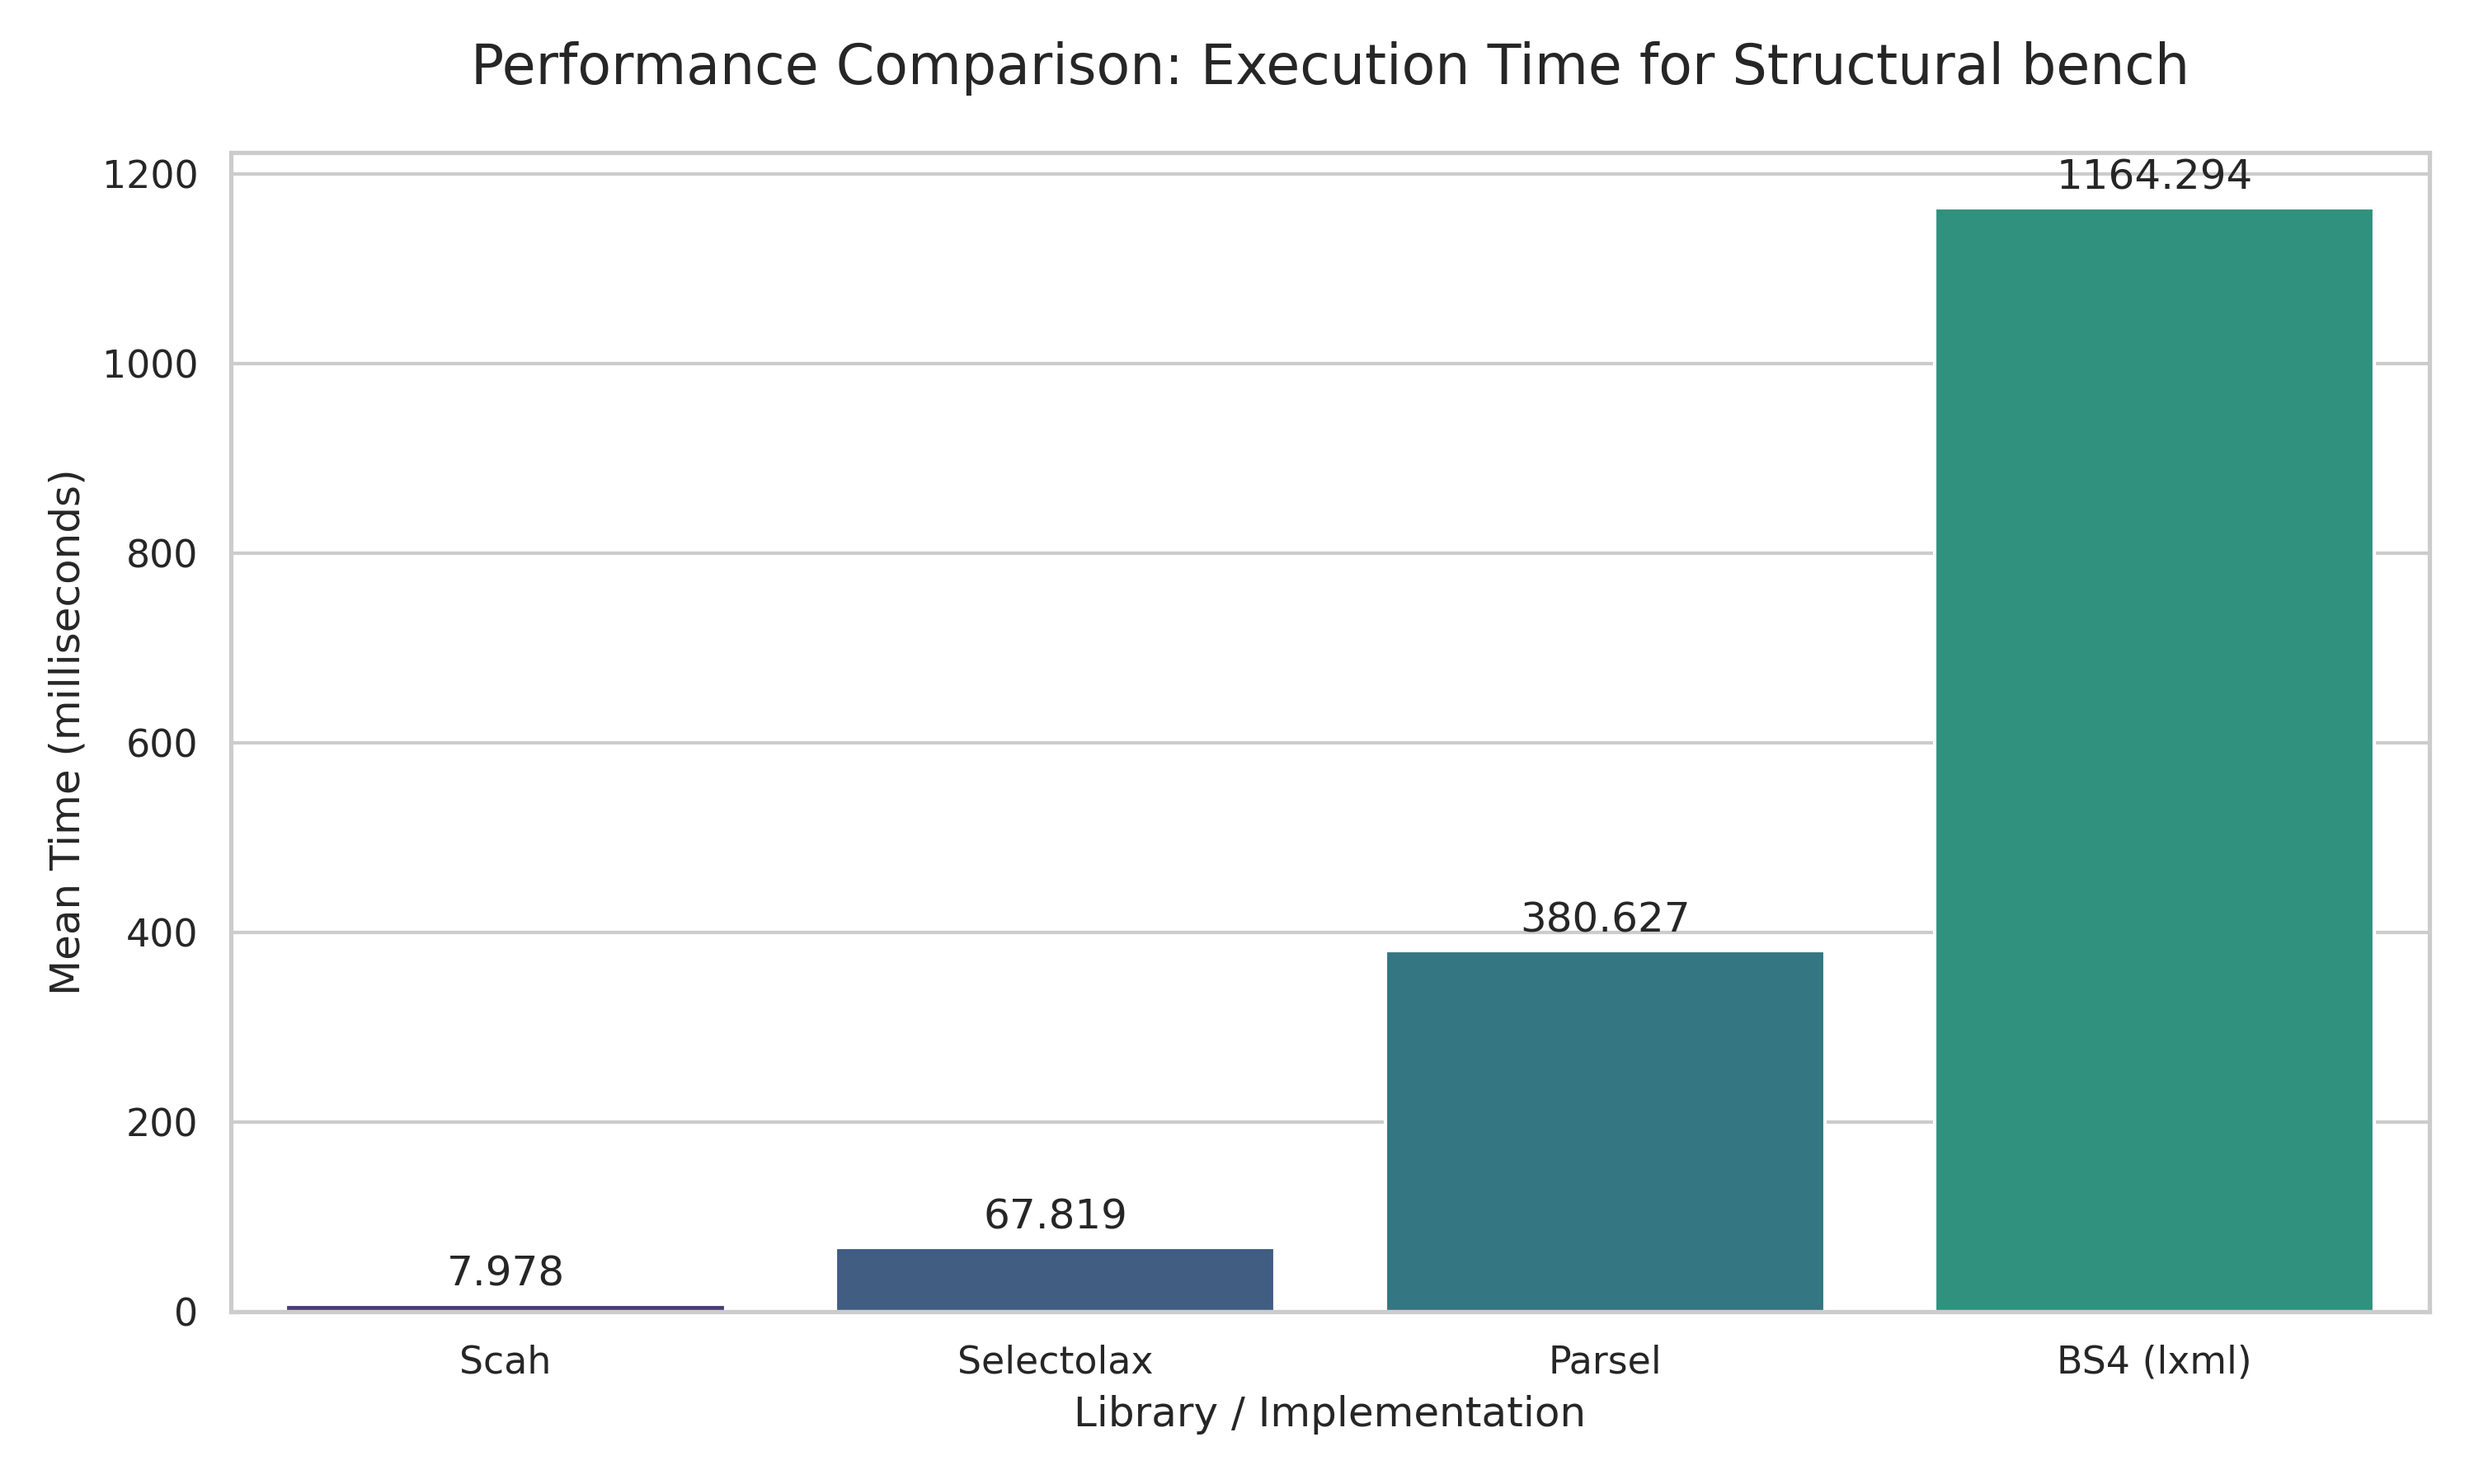
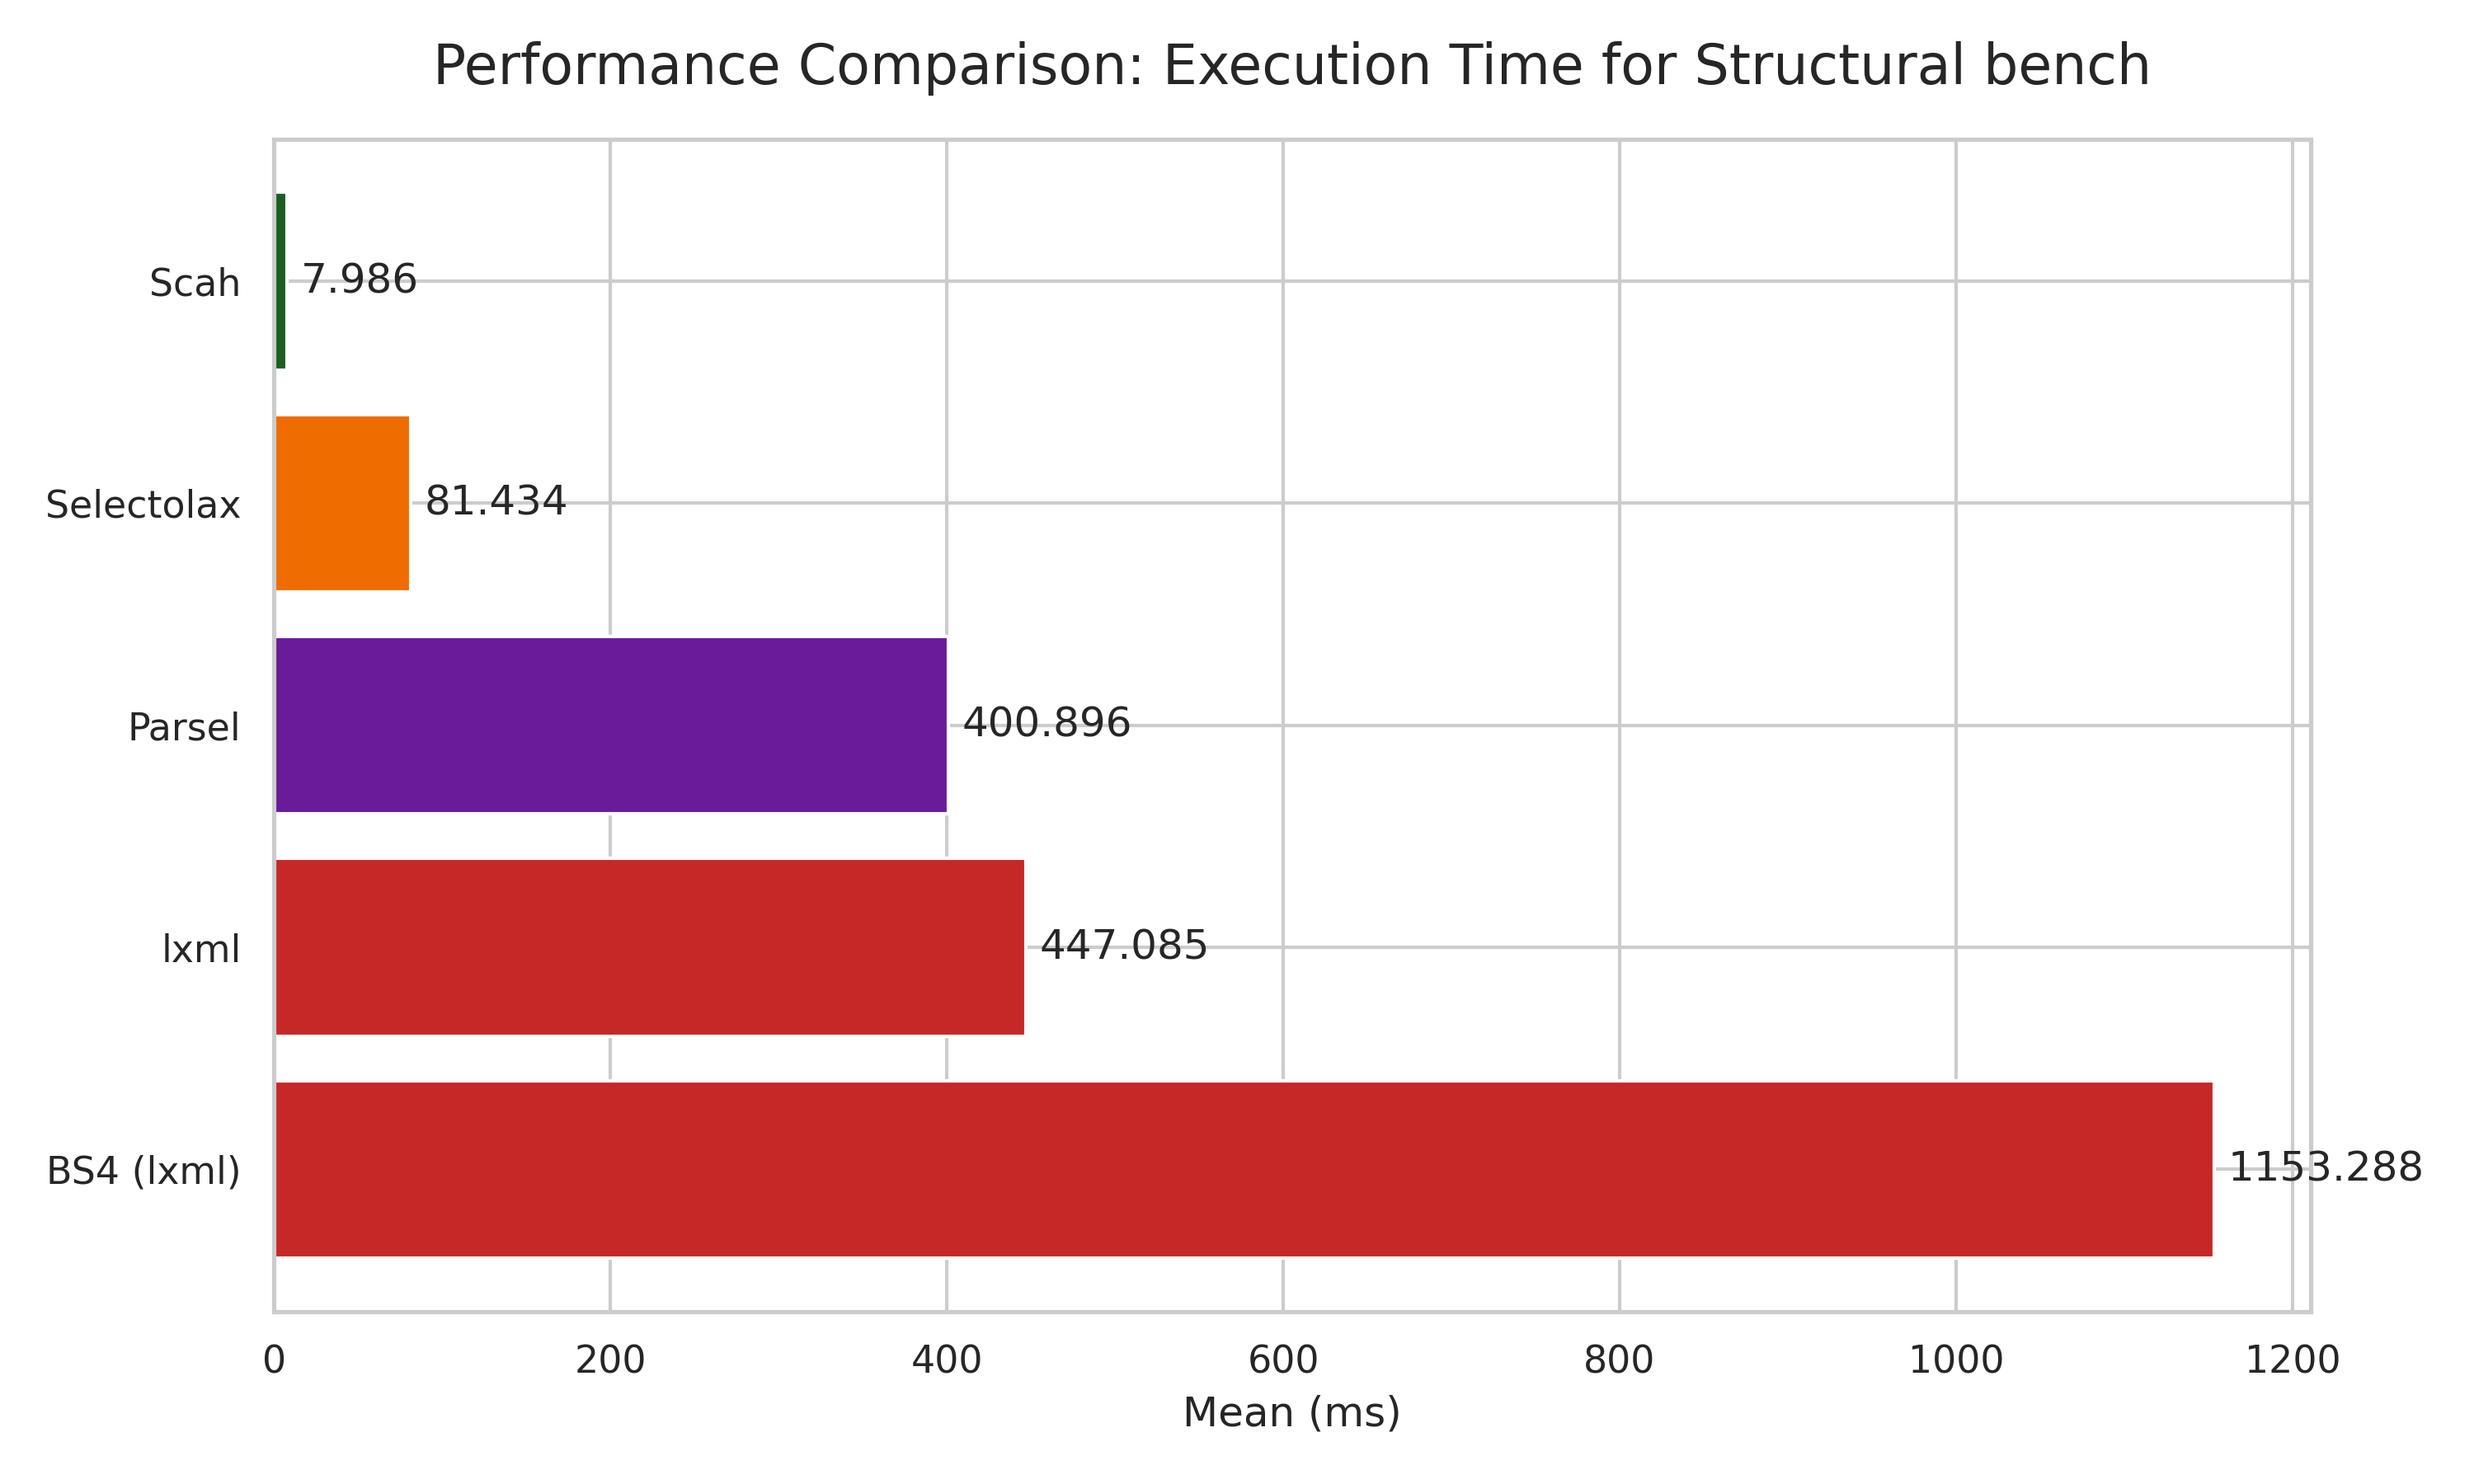
Added `lxml` parser

diff --git a/crates/bindings/scah-python/benches/utils/parsers.py b/crates/bindings/scah-python/benches/utils/parsers.py
@@ -3,37 +3,12 @@ import re
 from io import BytesIO
 
 from html.parser import HTMLParser
-
-try:
-    from bs4 import BeautifulSoup
-except ImportError:
-    BeautifulSoup = None
-
-try:
-    import lxml.html
-    from lxml import etree
-except ImportError:
-    lxml = None
-
-try:
-    from selectolax.parser import HTMLParser as SelectolaxParser
-except ImportError:
-    SelectolaxParser = None
-
-try:
-    from parsel import Selector
-except ImportError:
-    Selector = None
-
-try:
-    from gazpacho import Soup as GazpachoSoup
-except ImportError:
-    GazpachoSoup = None
-
-try:
-    import scah
-except ImportError:
-    scah = None
+from bs4 import BeautifulSoup
+import lxml.html
+from selectolax.parser import HTMLParser as SelectolaxParser
+from parsel import Selector
+from gazpacho import Soup as GazpachoSoup
+import scah
 
 def parse_bs4_htmlparser(html:str, query:str):
     soup = BeautifulSoup(html, "html.parser")
@@ -42,6 +17,10 @@ def parse_bs4_htmlparser(html:str, query:str):
 def parse_bs4_lxml(html:str, query:str):
     soup = BeautifulSoup(html, "lxml")
     return soup.find_all(query)
+
+def parse_lxml(html:str, query:str):
+    tree = lxml.html.fromstring(html)
+    return tree.cssselect(query)
 
 def parse_selectolax(html:str, query:str):
     tree = SelectolaxParser(html)
@@ -64,6 +43,7 @@ def parse_scah(html: str, query:str):
 PARSERS = {
     "Scah": parse_scah,
     # "BS4 (html.parser)": parse_bs4_htmlparser,
+    "lxml": parse_lxml,
     "BS4 (lxml)": parse_bs4_lxml,
     "Selectolax": parse_selectolax,
     "Parsel": parse_parsel,
@@ -71,17 +51,4 @@ PARSERS = {
 }
 
 def get_available_parsers():
-    available = {}
-    for name, func in PARSERS.items():
-        is_avail = True
-        if "BS4" in name and BeautifulSoup is None: is_avail = False
-        if "lxml" in name and lxml is None: is_avail = False
-        if "Selectolax" in name and SelectolaxParser is None: is_avail = False
-        if "Parsel" in name and Selector is None: is_avail = False
-        if "Gazpacho" in name and GazpachoSoup is None: is_avail = False
-        if "Scah" in name and scah is None: is_avail = False
-        
-        if is_avail:
-            available[name] = func
-            
-    return available
+    return PARSERS

diff --git a/crates/bindings/scah-python/benches/test_structural.py b/crates/bindings/scah-python/benches/test_structural.py
@@ -1,9 +1,10 @@
 import pytest
 
 from bs4 import BeautifulSoup
-from selectolax.parser import HTMLParser as SelectolaxParser
+import lxml.html
 from parsel import Selector
 from scah import Query, Save, parse
+from selectolax.parser import HTMLParser as SelectolaxParser
 
 
 PRODUCT_COUNT = 5_000
@@ -19,6 +20,18 @@ def parse_bs4_lxml(html: str):
             product.select_one("h1").get_text(strip=True),
             product.select_one(".rating").get_text(strip=True),
             product.select_one(".description").get_text(strip=True),
+        ))
+    return out
+
+
+def parse_lxml(html: str):
+    tree = lxml.html.fromstring(html)
+    out = []
+    for product in tree.cssselect(".product"):
+        out.append((
+            product.cssselect("h1")[0].text_content().strip(),
+            product.cssselect(".rating")[0].text_content().strip(),
+            product.cssselect(".description")[0].text_content().strip(),
         ))
     return out
 
@@ -65,10 +78,10 @@ def parse_scah(html: str):
 
 PARSERS = {
     "Scah": parse_scah,
+    "lxml": parse_lxml,
     "BS4 (lxml)": parse_bs4_lxml,
     "Selectolax": parse_selectolax,
     "Parsel": parse_parsel,
-    #"Gazpacho": parse_gazpacho,
 }
 
 
